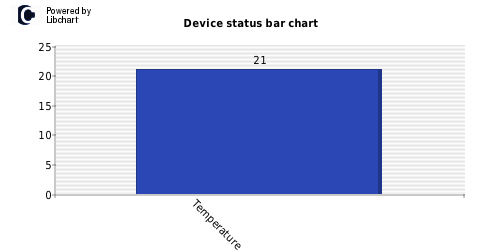
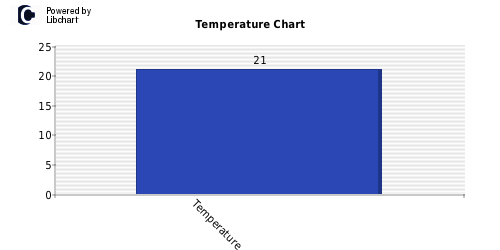
cleaning up the code

Changed region(s): [[0.36, 0.056, 0.66, 0.112]]

diff --git a/app/controllers/LoginController.php b/app/controllers/LoginController.php
@@ -53,11 +53,26 @@ class LoginController extends Controller
      * @var SessionWrapper
      */
     private $session_wrapper;
-
+    
+    /**
+     * this variable gives a flag if their is an error with username input
+     *
+     * @var bool
+     */
     private $username_error;
 
+    /**
+     * this variable gives a flag if their is an error with password input
+     *
+     * @var bool
+     */
     private $password_error;
 
+    /**
+     * this variable gives a flag if their is an error with the length of password input
+     *
+     * @var bool
+     */
     private $password_count_error;
 
     public function __construct($container)
@@ -147,14 +162,14 @@ class LoginController extends Controller
                 'username_err'          => $this->username_error,
                 'password_match_err'    => $password_matched_error,
                 'user_not_found_err'    => $user_not_found_error,
-                'title'        => APP_NAME,
-                'css'          => './views/css/styles.css',
-                'js'           => 'js/app.js',
-                'chart'        => '../public/images/temp.png',
-                'action'       => 'login',
-                'home'         => 'index.php',
-                'update'       => 'index.php/update',
-                'logout'       => 'logout'
+                'title'                 => APP_NAME,
+                'css'                   => './views/css/styles.css',
+                'js'                    => 'js/app.js',
+                'chart'                 => '../public/images/temp.png',
+                'action'                => 'login',
+                'home'                  => 'index.php',
+                'update'                => 'index.php/update',
+                'logout'                => 'logout'
             ]);
         }
 

diff --git a/app/controllers/Home.php b/app/controllers/Home.php
@@ -12,11 +12,13 @@ class Home extends Controller
 {
 
     private $session_wrapper;
+    private $libchart_wrapper;
 
     public function __construct($container)
     {
         parent::__construct($container);
         $this->session_wrapper = $container->get('SessionWrapper');
+        $this->libchart_wrapper = $container->get('LibchartWrapper');
     }
 
     public function __destruct()
@@ -30,19 +32,16 @@ class Home extends Controller
          return $response->withRedirect('/soap_app/app/login'); 
         }
 
-    $status = $this->circuit_board_dbh->getCircuitBoardStatus();
+        $status = $this->circuit_board_dbh->getCircuitBoardStatus();
 
-    include "../libchart/libchart/classes/libchart.php";
+        $chart_title = 'Temperature';
+        $data = $status->getTemperature();
+        $location = '../public/images/temp.png';
+        $main_title = 'Temperature Chart';
 
-    $chart = new VerticalBarChart(500, 250);
-    
-    $dataSet = new XYDataSet();
-	$dataSet->addPoint(new Point("Temperature", $status->getTemperature()));
-    
-    $chart->setDataSet($dataSet);
-
-    $chart->setTitle("Device status bar chart");
-	$chart->render("../public/images/temp.png");
+        $this->libchart_wrapper->setChartData($chart_title, $data);
+        $this->libchart_wrapper->setTitle($main_title);
+        $this->libchart_wrapper->render($location);
 
         return $this->view->render($response, 'status.twig',[
             'keypad'        => $status->getKeypad(),

diff --git a/app/models/LibchartWrapper.php b/app/models/LibchartWrapper.php
@@ -1,0 +1,71 @@
+<?php
+
+include "../libchart/libchart/classes/libchart.php";
+
+
+/**
+ * libchart wrapper class
+ * @author Ashraf Ajida 
+ */
+
+class LibchartWrapper
+{
+
+    /**
+     * VerticalBarChart
+     *
+     * @var VerticalBarChart
+     */
+    private $chart;
+
+    /**
+     * XYDataSet
+     *
+     * @var XYDataSet
+     */
+    private $data_set;
+
+    public function __construct()
+    {
+        $this->chart = new VerticalBarChart(500, 250);
+        $this->data_set = new XYDataSet();
+    }
+
+    public function __destruct()
+    {}
+
+
+    /**
+     * this function sets the data for the chart
+     *
+     * @return method
+     */
+
+    public function setChartData($title, $data)
+    {
+        $this->data_set->addPoint(new Point($title, $data));
+        $this->chart->setDataSet($this->data_set);       
+    }
+
+    /**
+     * this function sets the title
+     *
+     * @param string $title
+     * @return method
+     */
+    public function setTitle($title)
+    {
+        return $this->chart->setTitle($title);
+    }
+
+    /**
+     * this function renders the chart
+     * @return method
+     */
+
+    public function render($img_location)
+    {
+        return $this->chart->render($img_location);
+    }
+    
+}

diff --git a/app/controllers/UpdateStatus.php b/app/controllers/UpdateStatus.php
@@ -24,7 +24,9 @@ class UpdateStatus extends Controller
 
     public function index($request, $response, $args) 
     {
-        $messages = $this->soap_client_obj->getMessages();
+        $count = 30;
+
+        $messages = $this->soap_client_obj->getMessages(M2M_USERNAME, M2M_PASSWORD, $count);
         $filtered_arr = array();
 
 		foreach ($messages as $message) {
@@ -54,19 +56,6 @@ class UpdateStatus extends Controller
         }
         
         return $response->withRedirect('/soap_app/app');
-
-      
-        $validated_country = false;
-        $validated_detail = false;
-        $country_detail_result = false;
-    
-        $arr_tainted_params = $request->getParsedBody();
-        $validator = $this->get('validator');
-        $db_handle = $this->get('dbase');
-        $sql_queries = $this->get('sql_queries');
-        $wrapper_mysql = $this->get('mysql_wrapper');
-        $companydetails_model = $this->get('companydetails_model');
-        $companydetailschart_model = $this->get('companydetailschart_model');
 
     }
 }

diff --git a/app/models/M2mConsumer.php b/app/models/M2mConsumer.php
@@ -30,8 +30,15 @@ class M2MConsumer
      */
     public function createSoapClient($wsdl, $options)
     {
+        try {
+
+            return $this->client_obj = new SoapClient($wsdl, $options);
+
+        } catch(SoapFault $fault)
+        {
+            //Throw Exception
+        }
         
-        return $this->client_obj = new SoapClient($wsdl, $options);
 
     }
 
@@ -40,14 +47,11 @@ class M2MConsumer
      * @param string $username this is the username for the M2M sever
      * @param string $password this is the password for the M2M server
      * @param int $count this is the limit of return message from m2m
+     * @return array
      */
 
-    public function getMessages($username = null, $password = null, $count = null)
+    public function getMessages($username, $password, $count)
     {
-        $username = '18p2401696';
-        $password = 'Myee2010';
-        $count = 30;
-
         return $this->client_obj->peekMessages( 
             $username, 
             $password,

diff --git a/app/settings.php b/app/settings.php
@@ -15,6 +15,7 @@ require __DIR__ . '/models/LoginModel.php';
 require __DIR__ . '/models/RegisterModel.php';
 require __DIR__ . '/models/SessionWrapper.php';
 require __DIR__ . '/models/SessionModel.php';
+require __DIR__ . '/models/LibchartWrapper.php';
 
 
 $configuration = [
@@ -55,6 +56,10 @@ define('DBNAME', $db_name);
 define('USERNAME', $db_username);
 define('PASSWORD', $db_password);
 define('WSDL', $wsdl);
+
+define('M2M_USERNAME', '18p2401696');
+define('M2M_PASSWORD', 'Myee2010');
+
 
 define('SMS_IDENTIFIER', 'abc123'); 
 
@@ -141,6 +146,11 @@ $container['LoginModel'] = function ($container) {
 $container['RegisterModel'] = function ($container) {
     return new RegisterModel($container);
 };
+
+$container['LibchartWrapper'] = function ($container) {
+    return new LibchartWrapper($container);
+};
+
 
 
 

diff --git a/app/controllers/Controller.php b/app/controllers/Controller.php
@@ -1,11 +1,38 @@
 <?php
 
+/**
+ * abstract Controller class
+ * @author Ashraf Ajida 
+ */
+
 class Controller
 {
+    /**
+     * Twig templating
+     * @var Twig
+     */
     protected $view;
-    protected $soap_client_obj = null;
+
+    /**
+     * soap client for m2m
+     *
+     * @var SoapClient
+     */
+    protected $soap_client_obj;
+
+    /**
+     * circuit board database handle, handles all the query to the database
+     *
+     * @var CicuitBoardDbh
+     */
     protected $circuit_board_dbh;
-    protected $xml_parser = null;
+
+    /**
+     * parses the xml array to the xmlParser
+     *
+     * @var XmlParser
+     */
+    protected $xml_parser;
 
     public function __construct($container)
     {

diff --git a/app/models/Validator.php b/app/models/Validator.php
@@ -2,7 +2,7 @@
 
 /**
  * Validates raw XML formatted SMS messages.
- * @author Michael
+ * @author Ashraf Ajida
  */
 final class Validator
 {
